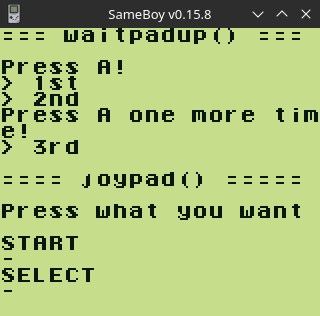
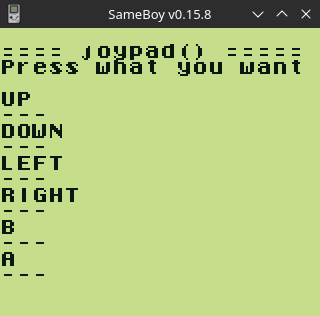
working on example 2

diff --git a/02-gamepad/src/main.c b/02-gamepad/src/main.c
@@ -33,7 +33,7 @@ void demo_joypad(void) {
 
             // ... or "-" if no key is pressed.
         } else {
-            printf("-\n");
+            printf("---\n");
         }
 
         // We keep the pressed keys
